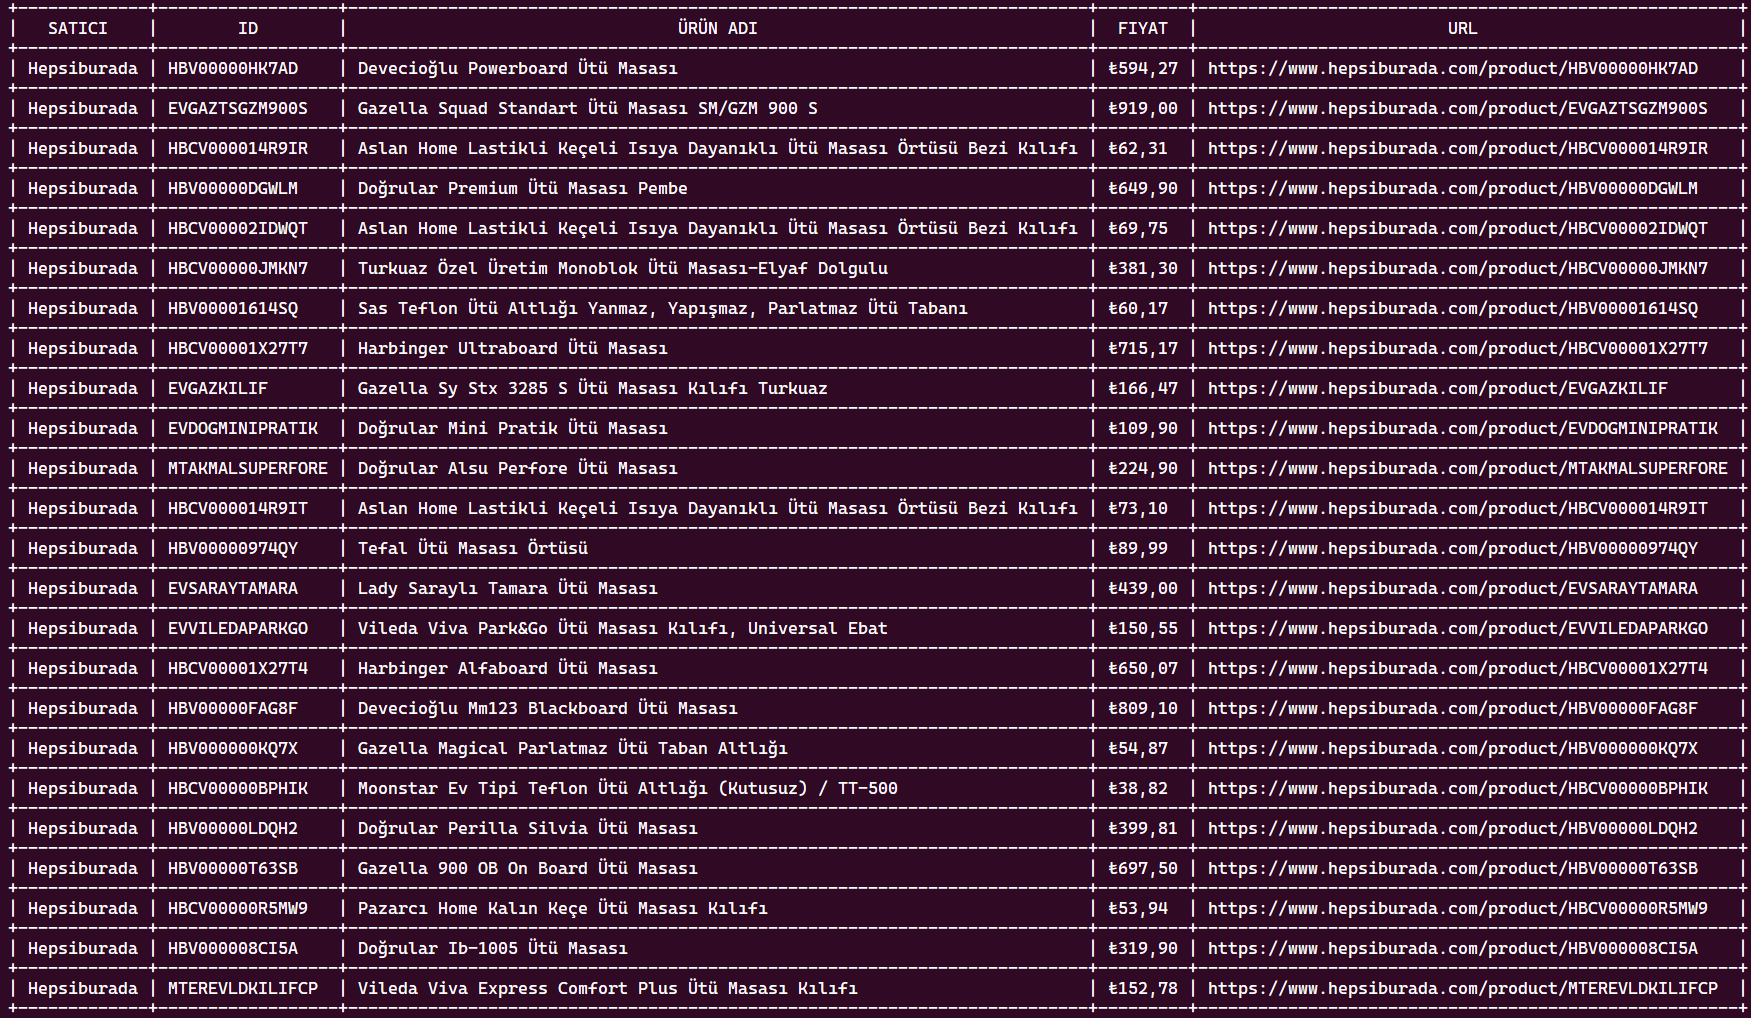
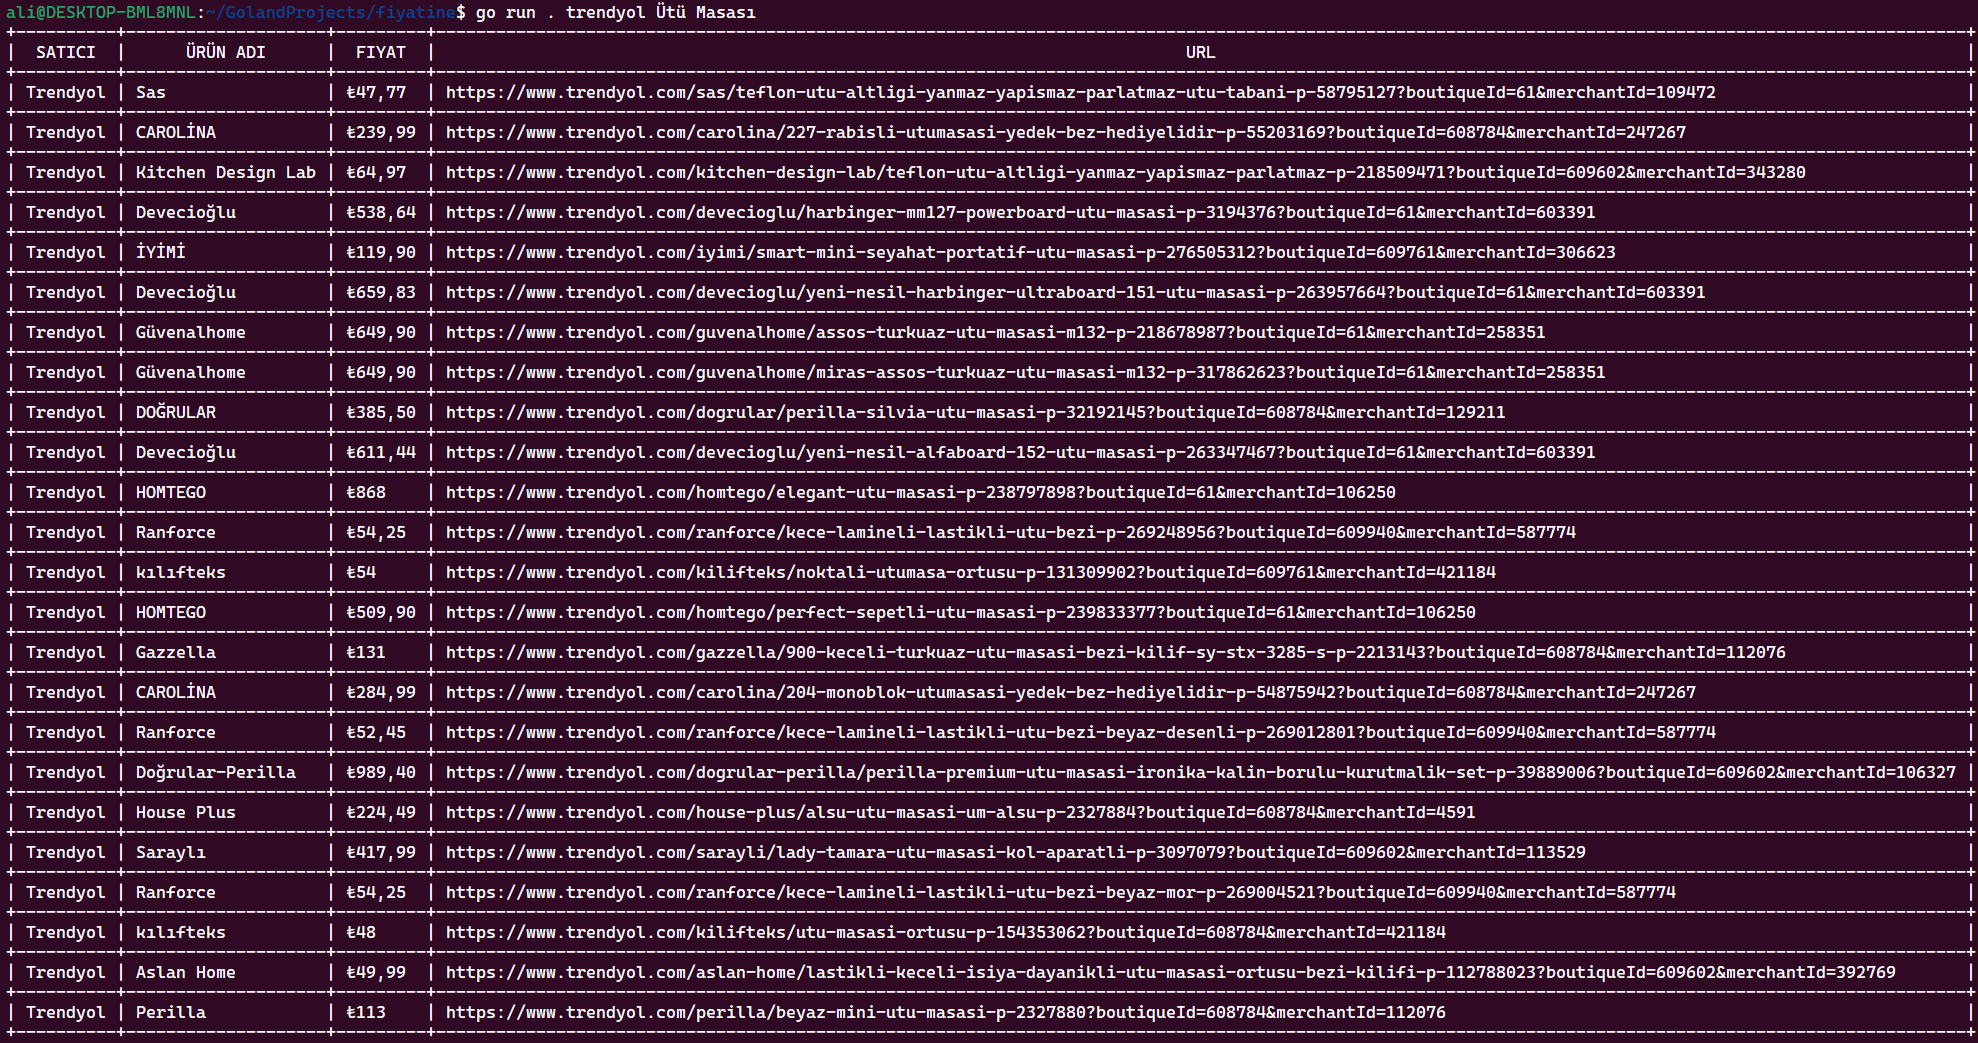
ekonominin çok iyi olması nedeniyle fiyatları küçükten büğüye olacak şekilde sunmaya başladım

diff --git a/internal/parsers/hepsiburada_parser.go b/internal/parsers/hepsiburada_parser.go
@@ -4,6 +4,8 @@ import (
 	"fmt"
 	"io"
 	"log"
+	"sort"
+	"strconv"
 	"strings"
 
 	"github.com/PuerkitoBio/goquery"
@@ -31,18 +33,24 @@ func (p HepsiburadaParser) parseServiceResponse() []models.ResponseModel {
 		priceData := s.Find("div[data-test-id='price-current-price']").Contents().FilterFunction(func(i int, s *goquery.Selection) bool {
 			return !s.Is("span")
 		}).Text()
+		priceField, _ := strconv.ParseFloat(strings.Replace(priceData, ",", ".", 1), 64)
 
 		splitUrl := strings.Split(url, "-")
 		id := splitUrl[len(splitUrl)-1]
 
 		if titleExist {
 			items = append(items, models.ResponseModel{
-				ID:    id,
-				Title: productTitle,
-				Url:   url,
-				Price: fmt.Sprintf("₺%s", priceData),
+				ID:         id,
+				Title:      productTitle,
+				Url:        url,
+				Price:      fmt.Sprintf("₺%s", priceData),
+				PriceField: priceField,
 			})
 		}
+	})
+
+	sort.Slice(items, func(i, j int) bool {
+		return items[i].PriceField < items[j].PriceField
 	})
 
 	return items

diff --git a/internal/parsers/trendyol_parser.go b/internal/parsers/trendyol_parser.go
@@ -4,6 +4,8 @@ import (
 	"fmt"
 	"io"
 	"log"
+	"sort"
+	"strconv"
 	"strings"
 
 	"github.com/PuerkitoBio/goquery"
@@ -29,14 +31,20 @@ func (p TrendyolParser) parseServiceResponse() []models.ResponseModel {
 		productTitle, titleExist := s.Find(".prdct-desc-cntnr-ttl").Attr("title")
 		url, _ := s.Attr("href")
 		priceData := strings.Replace(s.Find(".prc-box-dscntd").Text(), " TL", "", 1)
+		priceField, _ := strconv.ParseFloat(strings.Replace(priceData, ",", ".", 1), 64)
 
 		if titleExist {
 			items = append(items, models.ResponseModel{
-				Title: productTitle,
-				Url:   fmt.Sprintf("https://www.trendyol.com%s", url),
-				Price: fmt.Sprintf("₺%s", priceData),
+				Title:      productTitle,
+				Url:        fmt.Sprintf("https://www.trendyol.com%s", url),
+				Price:      fmt.Sprintf("₺%s", priceData),
+				PriceField: priceField,
 			})
 		}
+	})
+
+	sort.Slice(items, func(i, j int) bool {
+		return items[i].PriceField < items[j].PriceField
 	})
 
 	return items

diff --git a/internal/models/response_model.go b/internal/models/response_model.go
@@ -1,9 +1,10 @@
 package models
 
 type ResponseModel struct {
-	Vendor string
-	ID     string
-	Title  string
-	Url    string
-	Price  string
+	Vendor     string
+	ID         string
+	Title      string
+	Url        string
+	Price      string
+	PriceField float64
 }
